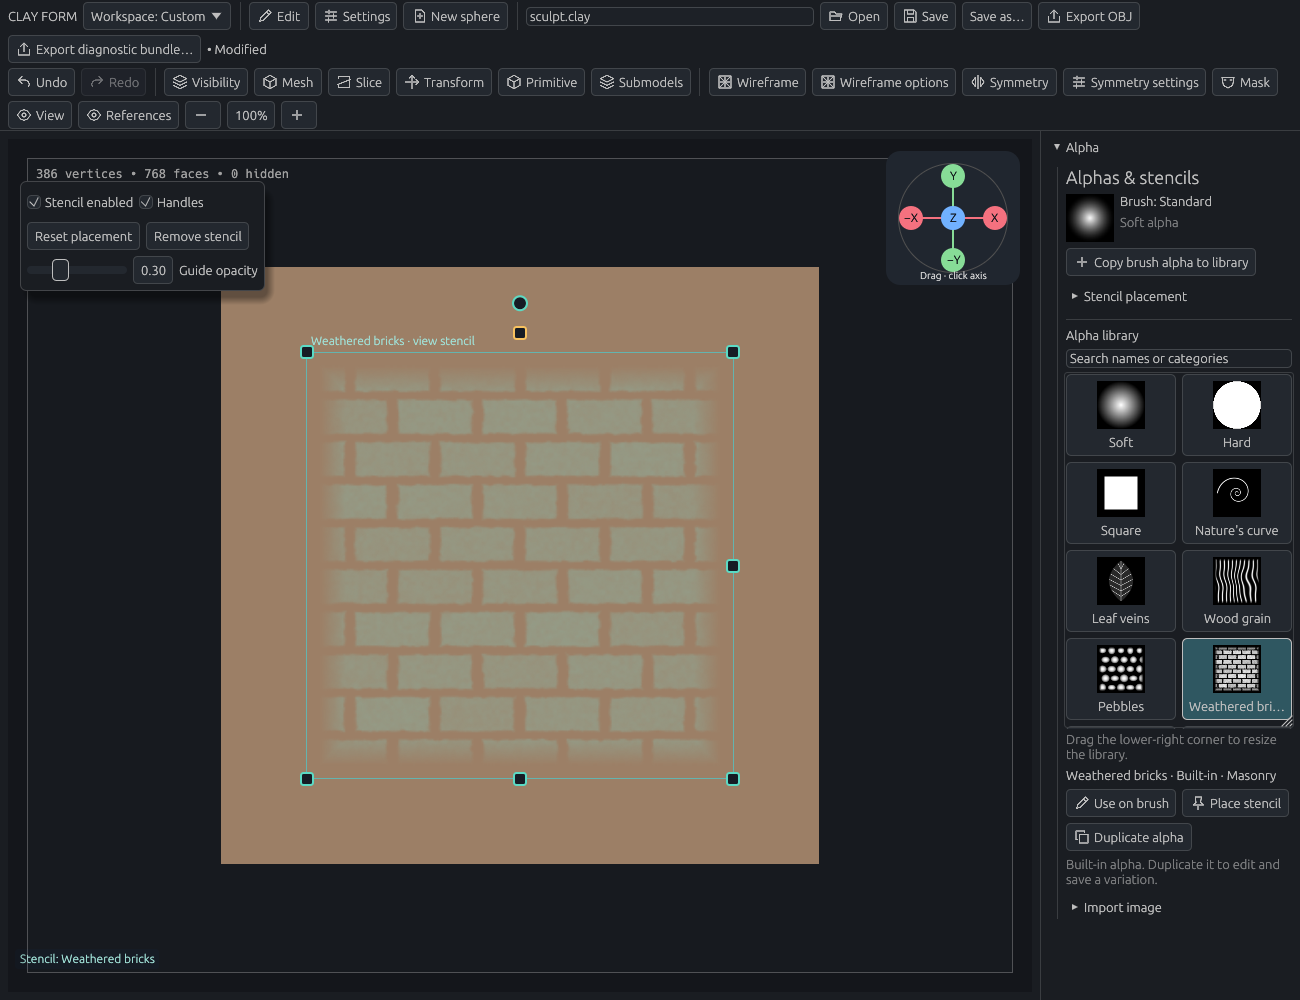
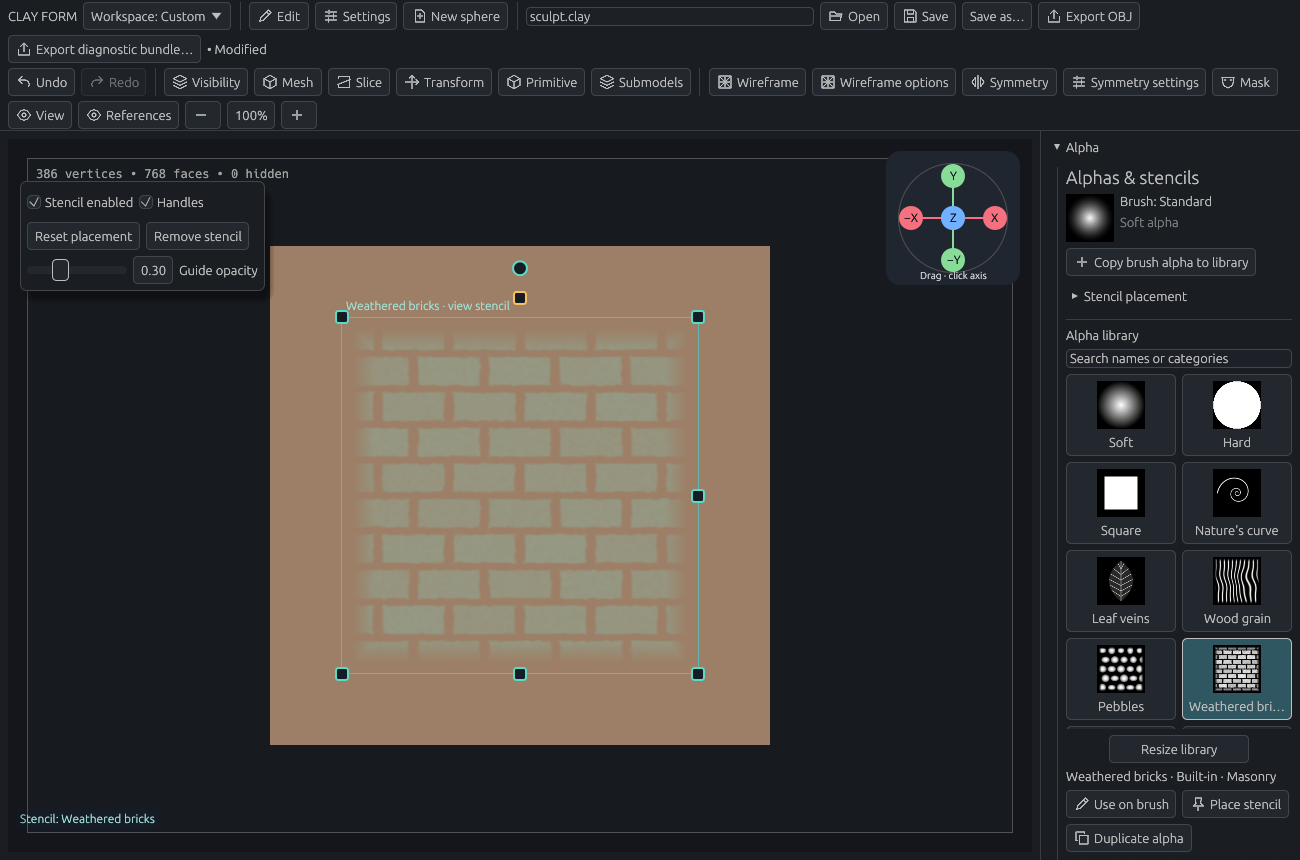
Keep alpha library resizing clear of sidebar scrollbars

diff --git a/src/ui/alphas.rs b/src/ui/alphas.rs
@@ -152,73 +152,82 @@ impl UiState {
                 .desired_width(f32::INFINITY),
         );
         let query = self.alphas.search.to_lowercase();
-        let library_width = ui.available_width();
-        egui::Resize::default()
-            .id_salt("alpha_library_size")
-            .default_height(352.)
-            .min_height(258.)
-            .max_height(704.)
-            .min_width(library_width)
-            .max_width(library_width)
-            .resizable([false, true])
+        let height_id = ui.make_persistent_id("alpha_library_height");
+        let mut library_height = ui
+            .ctx()
+            .data_mut(|data| data.get_persisted::<f32>(height_id).unwrap_or(352.));
+        egui::ScrollArea::vertical()
+            .id_salt("alpha_library_thumbnails")
+            .max_height(library_height)
+            .auto_shrink([false, false])
             .show(ui, |ui| {
-                egui::ScrollArea::vertical()
-                    .id_salt("alpha_library_thumbnails")
-                    .max_height(ui.available_height())
-                    .auto_shrink([false, false])
+                let columns = ((ui.available_width() / 100.).floor() as usize).clamp(1, 4);
+                let width = (ui.available_width() - (columns - 1) as f32 * 6.) / columns as f32;
+                egui::Grid::new("alpha_library")
+                    .spacing(Vec2::splat(6.))
                     .show(ui, |ui| {
-                        let columns = ((ui.available_width() / 100.).floor() as usize).clamp(1, 4);
-                        let width =
-                            (ui.available_width() - (columns - 1) as f32 * 6.) / columns as f32;
-                        egui::Grid::new("alpha_library")
-                            .spacing(Vec2::splat(6.))
-                            .show(ui, |ui| {
-                                let mut count = 0;
-                                for selection in (0..builtins().len())
-                                    .map(Selection::Builtin)
-                                    .chain((0..document.alphas().len()).map(Selection::Project))
-                                {
-                                    let asset =
-                                        selection.asset(document).expect("existing library entry");
-                                    if !format!("{} {}", asset.name, asset.category)
-                                        .to_lowercase()
-                                        .contains(&query)
-                                    {
-                                        continue;
-                                    }
-                                    let id = self.alphas.texture(ui.ctx(), &asset.image);
-                                    let response = design::brush_tile(
-                                        ui,
-                                        id,
-                                        &asset.name,
-                                        self.alphas.selected == Some(selection),
-                                        width,
-                                    )
-                                    .on_hover_text(&asset.category);
-                                    let response = match (&selection, &asset.image) {
-                                        (Selection::Builtin(_), Alpha::Soft) => {
-                                            response.customize(Action::AlphaSoft)
-                                        }
-                                        (Selection::Builtin(_), Alpha::Hard) => {
-                                            response.customize(Action::AlphaHard)
-                                        }
-                                        (Selection::Builtin(_), Alpha::Square) => {
-                                            response.customize(Action::AlphaSquare)
-                                        }
-                                        _ => response,
-                                    };
-                                    if response.clicked() {
-                                        self.alphas.selected = Some(selection);
-                                    }
-                                    count += 1;
-                                    if count % columns == 0 {
-                                        ui.end_row();
-                                    }
+                        let mut count = 0;
+                        for selection in (0..builtins().len())
+                            .map(Selection::Builtin)
+                            .chain((0..document.alphas().len()).map(Selection::Project))
+                        {
+                            let asset = selection.asset(document).expect("existing library entry");
+                            if !format!("{} {}", asset.name, asset.category)
+                                .to_lowercase()
+                                .contains(&query)
+                            {
+                                continue;
+                            }
+                            let id = self.alphas.texture(ui.ctx(), &asset.image);
+                            let response = design::brush_tile(
+                                ui,
+                                id,
+                                &asset.name,
+                                self.alphas.selected == Some(selection),
+                                width,
+                            )
+                            .on_hover_text(&asset.category);
+                            let response = match (&selection, &asset.image) {
+                                (Selection::Builtin(_), Alpha::Soft) => {
+                                    response.customize(Action::AlphaSoft)
                                 }
-                            });
+                                (Selection::Builtin(_), Alpha::Hard) => {
+                                    response.customize(Action::AlphaHard)
+                                }
+                                (Selection::Builtin(_), Alpha::Square) => {
+                                    response.customize(Action::AlphaSquare)
+                                }
+                                _ => response,
+                            };
+                            if response.clicked() {
+                                self.alphas.selected = Some(selection);
+                            }
+                            count += 1;
+                            if count % columns == 0 {
+                                ui.end_row();
+                            }
+                        }
                     });
             });
-        ui.weak("Drag the lower-right corner to resize the library.");
+        // Keep the grab area in the middle, clear of both nested scrollbars.
+        let resize = ui
+            .horizontal(|ui| {
+                let width = (ui.available_width() - 32.).clamp(64., 140.);
+                ui.add_space(((ui.available_width() - width) * 0.5).max(0.));
+                ui.add_sized(
+                    [width, 22.],
+                    egui::Button::new("Resize library").sense(egui::Sense::drag()),
+                )
+                .on_hover_cursor(egui::CursorIcon::ResizeVertical)
+                .on_hover_text("Drag up or down to change the library height")
+            })
+            .inner;
+        if resize.dragged() {
+            library_height = (library_height + resize.drag_delta().y).clamp(258., 704.);
+            ui.ctx()
+                .data_mut(|data| data.insert_persisted(height_id, library_height));
+            ui.ctx().request_repaint();
+        }
         if let Some((selection, asset)) = self
             .alphas
             .selected

diff --git a/src/app/tests/guide_captures.rs b/src/app/tests/guide_captures.rs
@@ -1758,7 +1758,8 @@ fn alpha_library_stencil_offscreen_review() {
 fn stencil_controls_offscreen_review() {
     let directory = std::env::var("CLAY_GUIDE_PREVIEW").expect("Set CLAY_GUIDE_PREVIEW");
     std::fs::create_dir_all(&directory).unwrap();
-    let mut g = Guide::new(std::path::Path::new(&directory), [1300, 1000]);
+    // A short sidebar overflows, reproducing the parent scrollbar obstruction.
+    let mut g = Guide::new(std::path::Path::new(&directory), [1300, 860]);
     g.interactive = true;
     let cube = Primitive::for_kind(PrimitiveKind::Cube);
     g.app
@@ -1776,6 +1777,35 @@ fn stencil_controls_offscreen_review() {
     g.app.ui.alphas.selected = Some(crate::ui::alphas::Selection::Builtin(7));
     click_guide_label(&mut g, "Place stencil");
     g.save("alpha-library-expanded");
+    let handle = g
+        .text_positions
+        .iter()
+        .find(|(text, _)| text == "Resize library")
+        .unwrap()
+        .1;
+    let geometry = g.app.document.geometry_snapshot();
+    // Wake the parent's floating scrollbar before reaching for the handle.
+    g.frame(vec![egui::Event::PointerMoved(Pos2::new(1294., handle.y))]);
+    g.frame(vec![
+        egui::Event::PointerMoved(handle),
+        primary_event(handle, true),
+    ]);
+    let end = handle + Vec2::new(0., 70.);
+    g.frame(vec![egui::Event::PointerMoved(end)]);
+    g.frame(vec![primary_event(end, false)]);
+    g.frame(vec![]);
+    let resized = g
+        .text_positions
+        .iter()
+        .find(|(text, _)| text == "Resize library")
+        .unwrap()
+        .1;
+    assert!(
+        (resized.y - handle.y - 70.).abs() < 2.,
+        "the centered handle resizes despite the parent scrollbar"
+    );
+    assert!(g.app.document.geometry_snapshot() == geometry);
+    g.save("alpha-library-resized");
 }
 
 fn review_stencil_controls(g: &mut Guide) {

diff --git a/docs/guide/sculpting.md b/docs/guide/sculpting.md
@@ -59,7 +59,7 @@ Grab follows pointer movement; spacing does not affect it. Subtracting Smooth sh
 
 ### Choose an alpha
 
-An alpha shapes each dab. Open the **Alpha** panel, select **Soft**, **Hard**, or **Square** in the **Alpha library**, then choose **Use on brush**. The library includes **39 built-ins**, with **Nature’s curve** (a flowing spiral), **Leaf veins**, **Wood grain**, and **Pebbles** alongside the following collections. These built-ins are always available, including in older projects. You can also **Place stencil** with them or **Duplicate alpha** to edit a variation. Built-ins cannot be removed; saved copies can. Search by name or category to find a pattern. The library starts four rows tall; drag its lower-right corner to change its height.
+An alpha shapes each dab. Open the **Alpha** panel, select **Soft**, **Hard**, or **Square** in the **Alpha library**, then choose **Use on brush**. The library includes **39 built-ins**, with **Nature’s curve** (a flowing spiral), **Leaf veins**, **Wood grain**, and **Pebbles** alongside the following collections. These built-ins are always available, including in older projects. You can also **Place stencil** with them or **Duplicate alpha** to edit a variation. Built-ins cannot be removed; saved copies can. Search by name or category to find a pattern. The library starts four rows tall; drag **Resize library** up or down to change its height. This centered handle stays clear of the sidebar scrollbar.
 
 | Category | Examples |
 | --- | --- |
